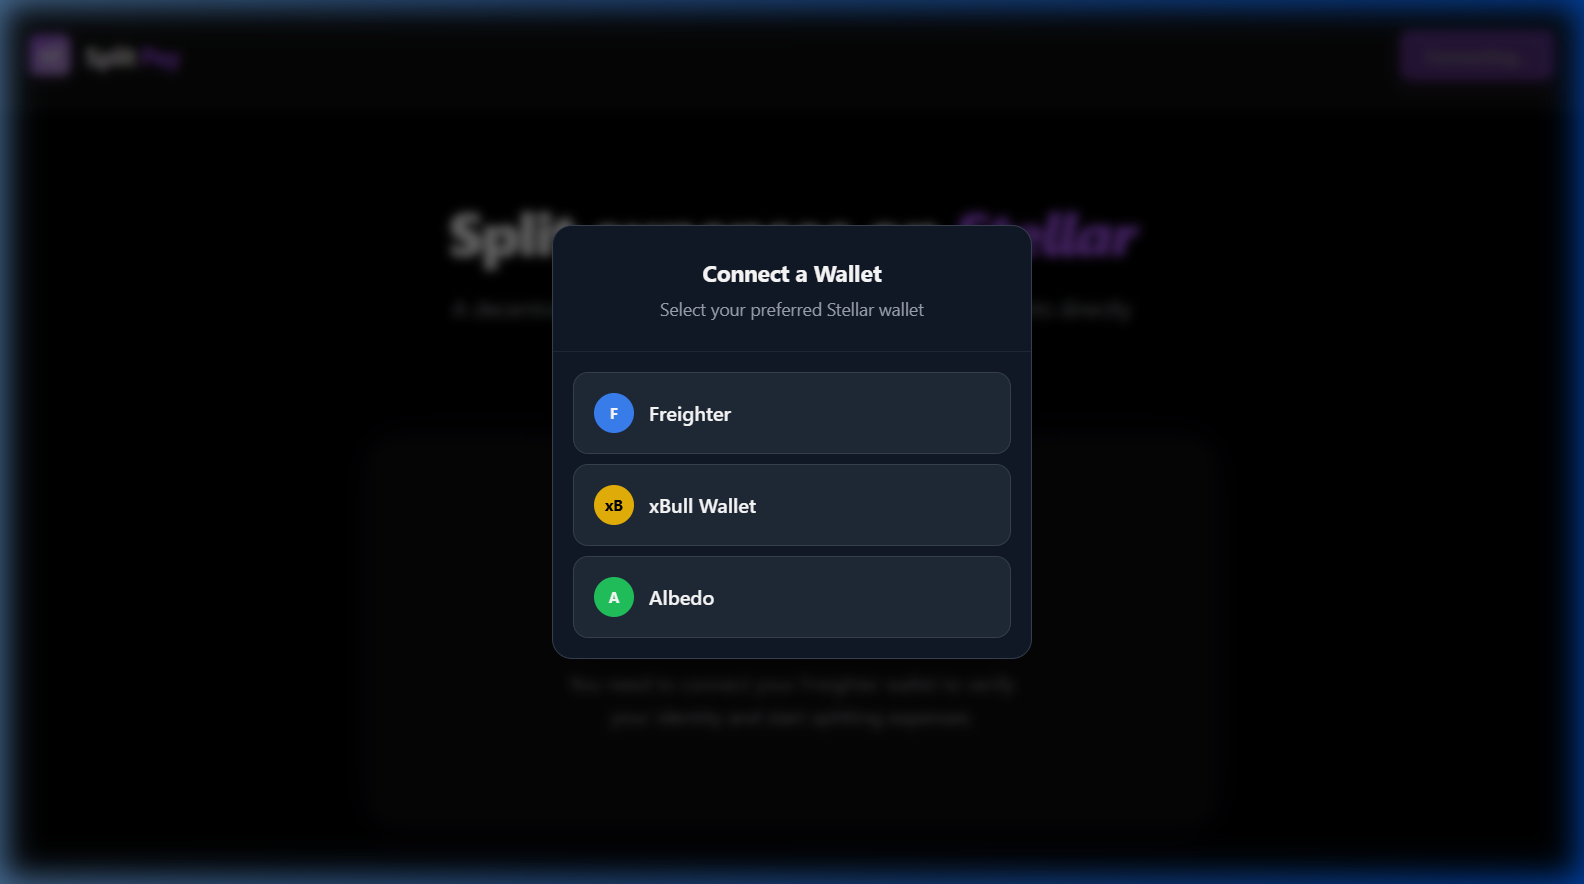
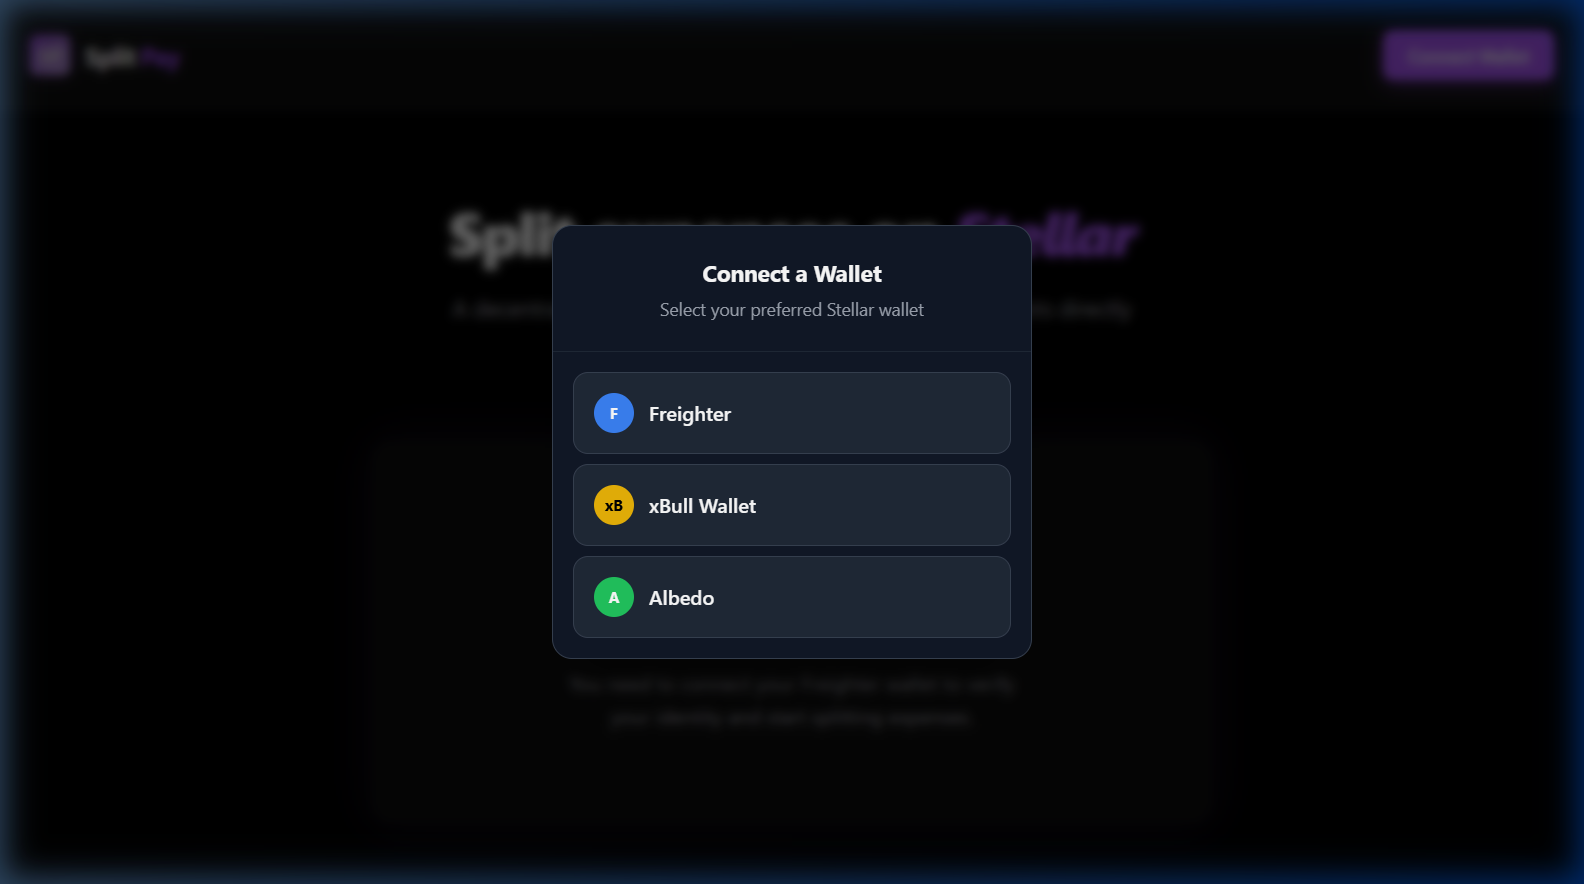
feat: rebuild multi-wallet modal as proper React component - shows Freighter/xBull/Albedo selection before connecting

Changed region(s): [[0.0, 0.0, 1.0, 1.0], [0.4331, 0.0, 0.5568, 0.0305], [0.5878, 0.0, 0.6187, 0.0305]]

diff --git a/src/components/WalletModal.jsx b/src/components/WalletModal.jsx
@@ -1,0 +1,120 @@
+import { useState } from 'react';
+
+// Wallet selection modal + Freighter connection
+// This replaces the broken SWK mock with a proper React-based multi-wallet modal
+
+const WALLETS = [
+  { id: 'freighter', name: 'Freighter', color: 'bg-blue-500', letter: 'F', available: true },
+  { id: 'xbull', name: 'xBull Wallet', color: 'bg-yellow-500 text-black', letter: 'xB', available: false },
+  { id: 'albedo', name: 'Albedo', color: 'bg-green-500', letter: 'A', available: false },
+];
+
+export default function WalletModal({ isOpen, onClose, onConnect }) {
+  const [connecting, setConnecting] = useState(null);
+  const [error, setError] = useState(null);
+
+  if (!isOpen) return null;
+
+  const handleSelect = async (wallet) => {
+    if (!wallet.available) {
+      setError(`${wallet.name} is not installed. Please install it or choose another wallet.`);
+      return;
+    }
+
+    setConnecting(wallet.id);
+    setError(null);
+
+    try {
+      if (wallet.id === 'freighter') {
+        // Dynamically import freighter-api to connect
+        const freighterApi = await import('@stellar/freighter-api');
+
+        // v6 API: requestAccess returns { address, error }
+        const result = await freighterApi.requestAccess();
+        
+        if (result.error) {
+          throw new Error(result.error);
+        }
+
+        const address = typeof result === 'string' ? result : result.address;
+        if (address) {
+          onConnect(address);
+          onClose();
+        } else {
+          throw new Error('No address returned from Freighter');
+        }
+      }
+    } catch (err) {
+      console.error('Wallet connection error:', err);
+      setError(err.message || 'Connection failed. Please try again.');
+    } finally {
+      setConnecting(null);
+    }
+  };
+
+  return (
+    <div
+      className="fixed inset-0 z-50 flex items-center justify-center bg-black/60 backdrop-blur-sm"
+      onClick={(e) => { if (e.target === e.currentTarget) onClose(); }}
+    >
+      <div className="bg-gray-900 border border-gray-700 rounded-2xl w-full max-w-sm overflow-hidden shadow-2xl animate-fade-in-up">
+        {/* Header */}
+        <div className="p-6 border-b border-gray-800 flex items-center justify-between">
+          <div>
+            <h3 className="text-white text-lg font-bold">Connect a Wallet</h3>
+            <p className="text-gray-400 text-sm mt-0.5">Select your preferred Stellar wallet</p>
+          </div>
+          <button
+            onClick={onClose}
+            className="text-gray-500 hover:text-white transition-colors p-1"
+          >
+            <svg className="w-5 h-5" fill="none" viewBox="0 0 24 24" stroke="currentColor">
+              <path strokeLinecap="round" strokeLinejoin="round" strokeWidth="2" d="M6 18L18 6M6 6l12 12" />
+            </svg>
+          </button>
+        </div>
+
+        {/* Wallet options */}
+        <div className="p-4 space-y-2">
+          {WALLETS.map((wallet) => (
+            <button
+              key={wallet.id}
+              onClick={() => handleSelect(wallet)}
+              disabled={connecting !== null}
+              className={`w-full flex items-center justify-between p-4 rounded-xl transition-all border group
+                ${wallet.available
+                  ? 'bg-gray-800 hover:bg-gray-700 border-gray-700 hover:border-purple-500 cursor-pointer'
+                  : 'bg-gray-800/50 border-gray-800 cursor-not-allowed opacity-60'
+                }
+                ${connecting === wallet.id ? 'border-purple-500 bg-gray-700' : ''}
+              `}
+            >
+              <span className="text-white font-semibold flex items-center gap-3">
+                <div className={`w-8 h-8 ${wallet.color} rounded-full flex items-center justify-center font-bold text-xs`}>
+                  {wallet.letter}
+                </div>
+                {wallet.name}
+              </span>
+              <span className="text-xs">
+                {connecting === wallet.id ? (
+                  <span className="text-purple-400 animate-pulse">Connecting...</span>
+                ) : wallet.available ? (
+                  <span className="text-green-400 opacity-0 group-hover:opacity-100 transition-opacity">Detected ✓</span>
+                ) : (
+                  <span className="text-gray-500">Not Installed</span>
+                )}
+              </span>
+            </button>
+          ))}
+        </div>
+
+        {/* Error message */}
+        {error && (
+          <div className="mx-4 mb-4 p-3 bg-red-900/20 border border-red-500/30 rounded-lg text-red-300 text-xs">
+            {error}
+          </div>
+        )}
+      </div>
+    </div>
+  );
+}

diff --git a/src/components/Navbar.jsx b/src/components/Navbar.jsx
@@ -1,37 +1,11 @@
 import { useState } from 'react';
-import { kit } from '../lib/swk';
+import WalletModal from './WalletModal';
 
 export default function Navbar({ publicKey, setPublicKey }) {
-  const [isConnecting, setIsConnecting] = useState(false);
-
-  const connectWallet = async () => {
-    setIsConnecting(true);
-    try {
-      const access = await kit.openModal({
-        allowedWallets: [
-          'xbull',
-          'freighter',
-          'albedo',
-          'walletConnect'
-        ],
-        onWalletSelected: async (option) => {
-          kit.setWallet(option.id);
-          const { address } = await kit.getAddress();
-          if (address) {
-            setPublicKey(address);
-          }
-        }
-      });
-    } catch (error) {
-      console.error("Manual connection failed:", error);
-      alert(`Wallet Connection Error:\n${error}\n${error.message}`);
-    }
-    setIsConnecting(false);
-  };
+  const [showModal, setShowModal] = useState(false);
 
   const disconnectWallet = () => {
     setPublicKey("");
-    // In a real app we might also kit.disconnect() if the provider supports it
   };
 
   const formatKey = (key) => {
@@ -40,37 +14,45 @@ export default function Navbar({ publicKey, setPublicKey }) {
   };
 
   return (
-    <nav className="w-full flex items-center justify-between p-6 bg-card border-b border-gray-900 border-opacity-50">
-      <div className="flex items-center gap-3">
-        <div className="w-8 h-8 rounded-md bg-gradient-to-br from-primary to-secondary flex items-center justify-center font-bold text-white shadow-[0_0_10px_rgba(168,85,247,0.4)] animate-pulse">
-          SP
-        </div>
-        <h1 className="text-xl font-bold tracking-tight text-white">Split<span className="text-primary ml-1">Pay</span></h1>
-      </div>
-
-      <div>
-        {!publicKey ? (
-          <button
-            onClick={connectWallet}
-            disabled={isConnecting}
-            className="px-5 py-2.5 rounded-lg bg-primary hover:bg-opacity-90 transition-all text-white font-medium text-sm shadow-[0_4px_14px_0_rgba(168,85,247,0.39)] disabled:opacity-50"
-          >
-            {isConnecting ? "Connecting..." : "Connect Wallet"}
-          </button>
-        ) : (
-          <div className="flex items-center gap-4">
-            <span className="text-sm font-mono text-textMuted bg-gray-900 px-3 py-1.5 rounded-md border border-gray-800">
-              {formatKey(publicKey)}
-            </span>
-            <button
-              onClick={disconnectWallet}
-              className="text-sm text-accent hover:text-red-400 transition-colors font-medium"
-            >
-              Disconnect
-            </button>
+    <>
+      <nav className="w-full flex items-center justify-between p-6 bg-card border-b border-gray-900 border-opacity-50">
+        <div className="flex items-center gap-3">
+          <div className="w-8 h-8 rounded-md bg-gradient-to-br from-primary to-secondary flex items-center justify-center font-bold text-white shadow-[0_0_10px_rgba(168,85,247,0.4)] animate-pulse">
+            SP
           </div>
-        )}
-      </div>
-    </nav>
+          <h1 className="text-xl font-bold tracking-tight text-white">Split<span className="text-primary ml-1">Pay</span></h1>
+        </div>
+
+        <div>
+          {!publicKey ? (
+            <button
+              onClick={() => setShowModal(true)}
+              className="px-5 py-2.5 rounded-lg bg-primary hover:bg-opacity-90 transition-all text-white font-medium text-sm shadow-[0_4px_14px_0_rgba(168,85,247,0.39)]"
+            >
+              Connect Wallet
+            </button>
+          ) : (
+            <div className="flex items-center gap-4">
+              <span className="text-sm font-mono text-textMuted bg-gray-900 px-3 py-1.5 rounded-md border border-gray-800">
+                {formatKey(publicKey)}
+              </span>
+              <button
+                onClick={disconnectWallet}
+                className="text-sm text-accent hover:text-red-400 transition-colors font-medium"
+              >
+                Disconnect
+              </button>
+            </div>
+          )}
+        </div>
+      </nav>
+
+      {/* Multi-Wallet Selection Modal (StellarWalletsKit) */}
+      <WalletModal
+        isOpen={showModal}
+        onClose={() => setShowModal(false)}
+        onConnect={(address) => setPublicKey(address)}
+      />
+    </>
   );
 }
